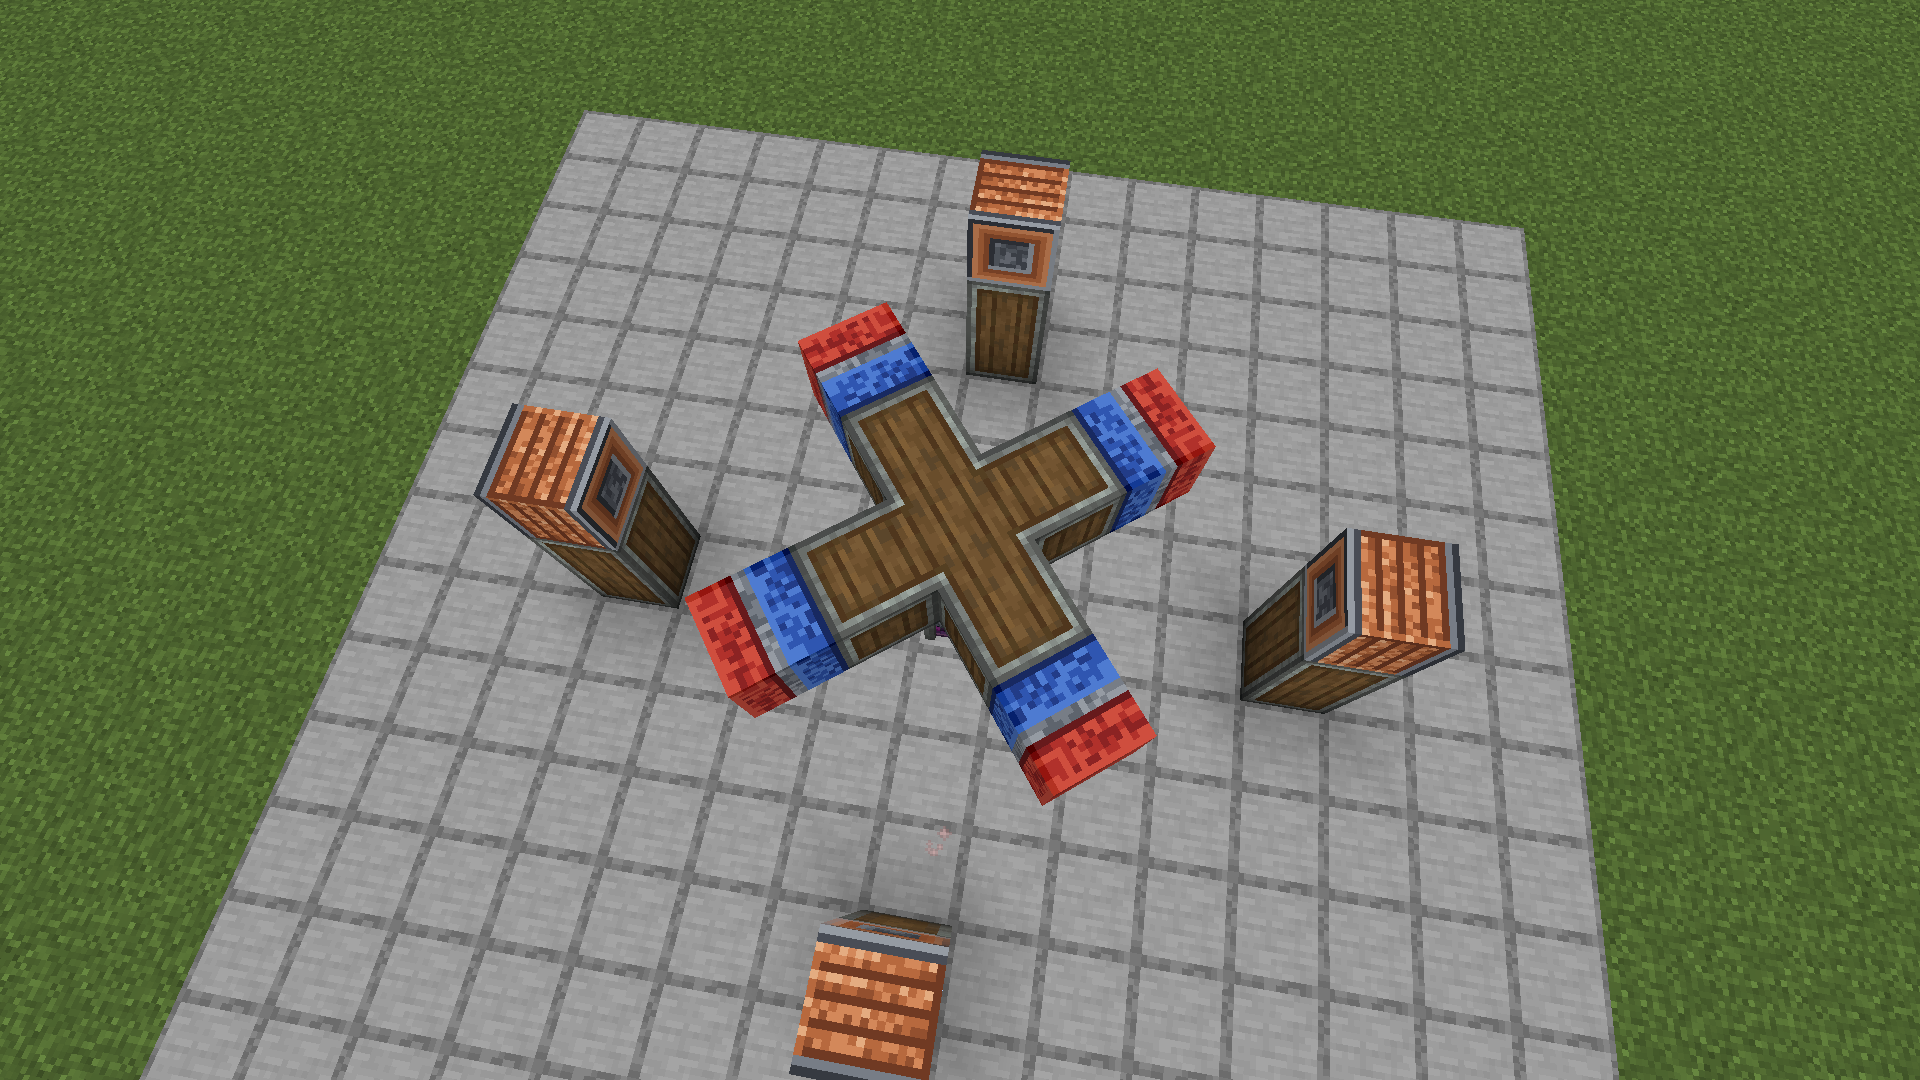
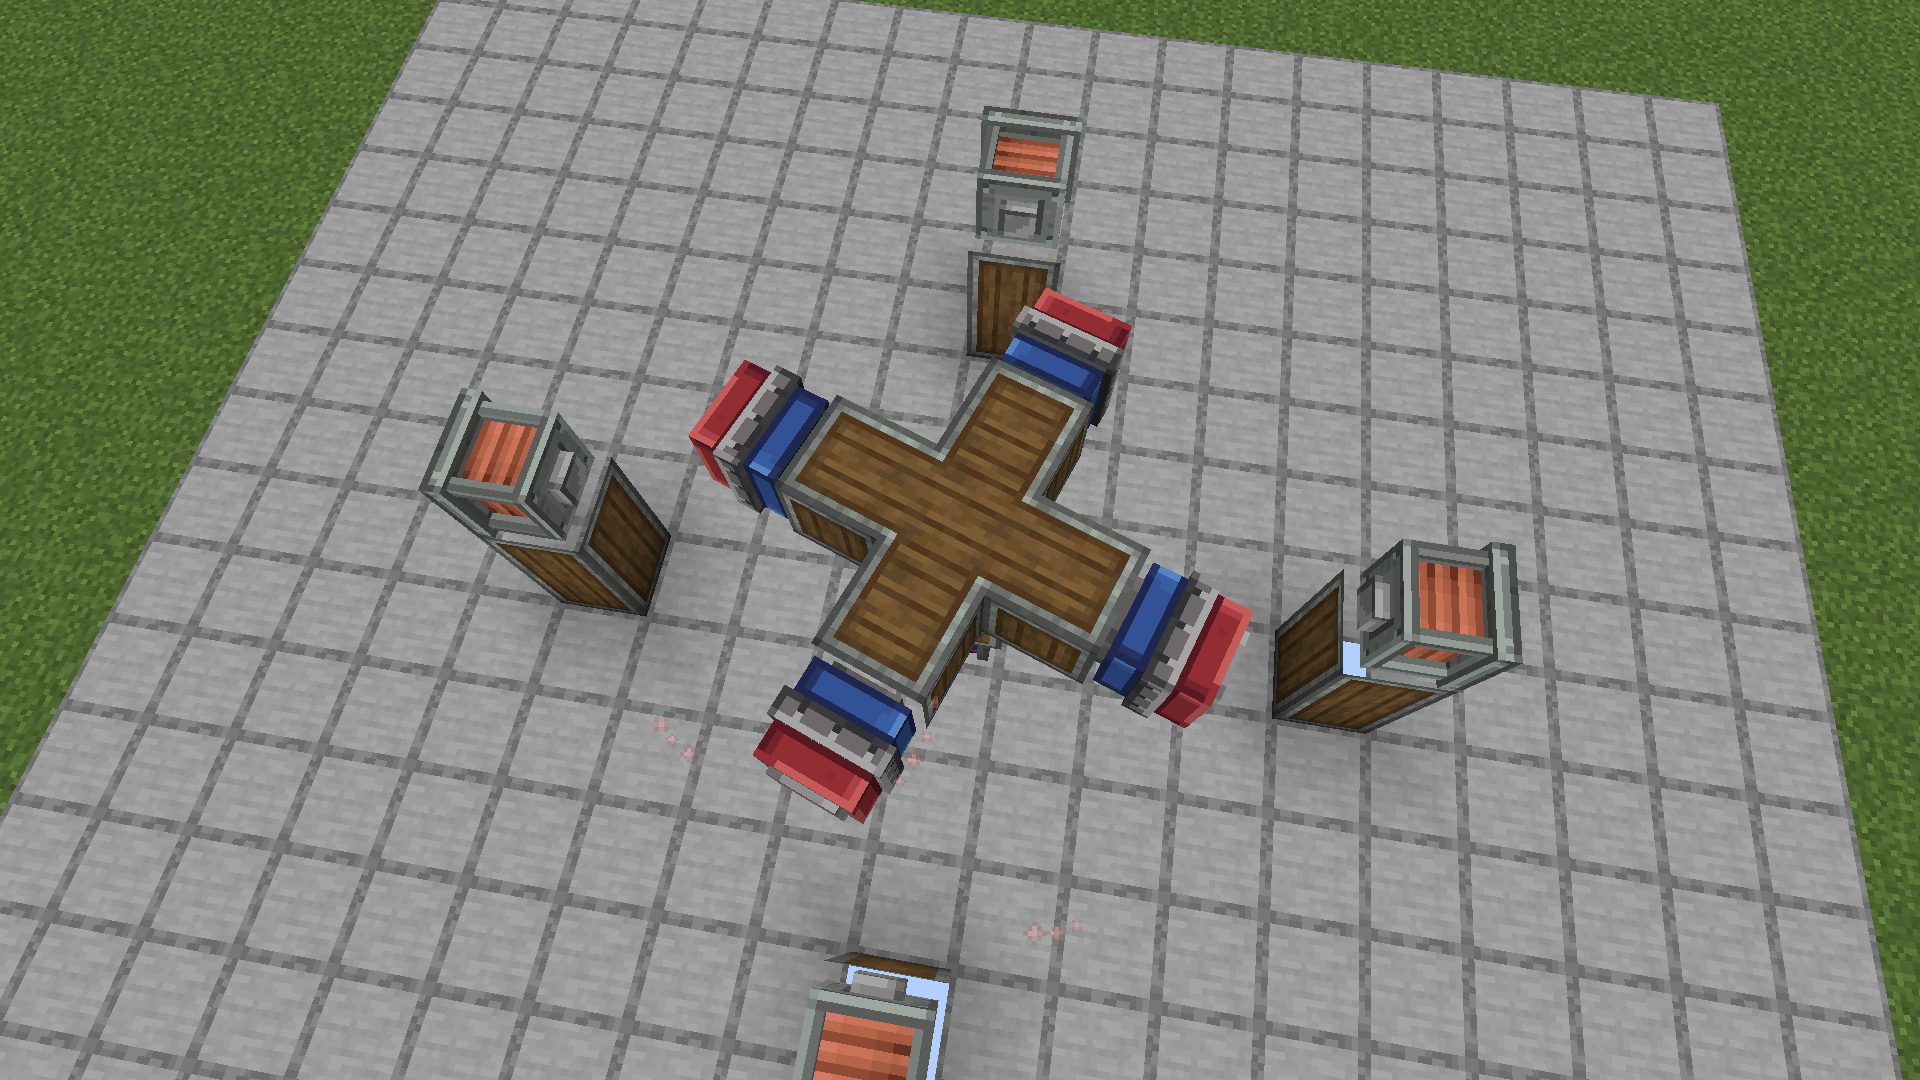
docs: slip rings, riveted layouts and water mill gallery
Claude-Session: https://claude.ai/code/session_01CYFnpUG9vceuDEbjoJofNZ

diff --git a/src/testmod/java/dev/jensh/createinduction/test/Showcase.java b/src/testmod/java/dev/jensh/createinduction/test/Showcase.java
@@ -218,7 +218,7 @@ public final class Showcase {
             if (wires) report.add("insideout battery=" + PowerGridRig.battery(server.overworld(), origin(3).offset(5, 0, 2)));
         }));
         shot("inside-out");
-        steps.add(onServer(server -> view(server, origin(3).above(4), 2.5, 2.2, 3.2)));
+        steps.add(onServer(server -> view(server, origin(3).above(4), 4.2, 0.9, 1.6)));
         pause(30);
         shot("slip-rings");
     }

diff --git a/docs/MODRINTH.md b/docs/MODRINTH.md
@@ -17,6 +17,24 @@ Electricity is never free. A coil that delivers power pushes back on the magnets
 
 ![The same generator seen from above: the rotor mid-turn between its four coils](https://raw.githubusercontent.com/jens-hj/create-induction/main/docs/gallery/generator-above.png)
 
+## Start small
+
+A generator does not need a creative motor. The bearing only takes the power its network can spare, so a few water wheels geared up turn a loaded rotor slowly instead of overstressing, and it speeds up as you add more.
+
+![Three water wheels geared up to a wheel-shaped magnet rotor between two coils, wired to a Power Grid battery](https://raw.githubusercontent.com/jens-hj/create-induction/main/docs/gallery/watermill.png)
+
+## Off the grid
+
+Coils and magnets do not have to sit on the block grid. Anything on its own physics structure counts, so with the Rivet from [Simulated Coasters](https://modrinth.com/mod/create-coasters-simulated) you can mount coils at any angle and fill the gaps a square layout leaves. Here four riveted coils between the four straight ones roughly double the output of the same rotor.
+
+![Seen from above: a four-magnet rotor ringed by eight coils, four of them riveted on at 45 degrees](https://raw.githubusercontent.com/jens-hj/create-induction/main/docs/gallery/riveted-above.png)
+
+## Inside out
+
+Real machines often spin the windings and keep the magnets still. That works here too: put the coils on the rotor, stand the magnets around it, and bring the electricity out through a pair of Slip Rings on the axis.
+
+![Four coils on a rotor between fixed magnets on posts, with a slip ring on the axis and wires leading away](https://raw.githubusercontent.com/jens-hj/create-induction/main/docs/gallery/inside-out.png)
+
 ## Blocks
 
 **Dynamo Bearing** – Feed it rotation from behind, glue a structure to its face and click it with an empty hand. The structure becomes a physics rotor driven towards the shaft's speed. Its stress impact rises and falls with the load.
@@ -26,12 +44,16 @@ Electricity is never free. A coil that delivers power pushes back on the magnets
 **Induction Coil** – Generates from any magnet moving past its face: Permanent Magnets, Redstone Magnets, on a rotor, on an airship, on a pendulum. Works in the world or on a physics structure.
 Give it a redstone signal and it runs the other way: it spends energy to become an electromagnet, with strength set by the signal. Pulse coils in time with a rotor and you have a motor.
 
+**Slip Ring** – Carries electricity across a turning joint. Place two face to face, one on the moving structure and one beside it; while their faces touch they pass Forge Energy straight through, and with Power Grid they join their wire terminals like brushes on a ring. Useful on any rotating or swivelling build, not only generators.
+
+![Close-up of two slip rings meeting on the axis of a rotor, wired to the coils below](https://raw.githubusercontent.com/jens-hj/create-induction/main/docs/gallery/slip-rings.png)
+
 Engineer's Goggles show voltage, current and power on coils, and rotor speed and delivered power on the bearing.
 
 ## Energy
 
 - **Forge Energy** – coils hold a small buffer and push into any neighbouring block that accepts FE. A full buffer means no load, no current and no braking.
-- **[Power Grid](https://modrinth.com/mod/power-grid)** (optional) – every coil gets a positive and a negative terminal on its back. Wire it up and it is a real voltage source in the circuit: the current your circuit draws is the current that brakes the rotor, and voltage applied from outside drives the coil as an electromagnet.
+- **[Power Grid](https://modrinth.com/mod/power-grid)** (optional) – every coil gets a positive and a negative terminal on its back. Wire it up and it is a real voltage source in the circuit: the current your circuit draws is the current that brakes the rotor, and with a redstone signal, voltage applied from outside drives it as an electromagnet. A generating coil lets nothing flow back in, so it can charge a battery directly.
 
 ## Requirements
 
@@ -47,4 +69,6 @@ Everything that affects balance is in the server config `create_induction-server
 ## Notes
 
 - Blocks on a rotor must be held together with Super Glue, as with any Create contraption.
+- A rotor is a solid object. Leave room for it to turn; anything in its way stops it.
+- Hanging wires to a Slip Ring on a rotor is done after assembling it.
 - This is an early release. Balance values are a first pass and may change.

diff --git a/README.md b/README.md
@@ -15,6 +15,8 @@ Player-facing description: [docs/MODRINTH.md](docs/MODRINTH.md).
 - `content/bearing` – assembles the structure on its face into a sub-level on a free hinge and applies drive torque
   directly; the stress impact follows the mechanical power delivered.
 - `content/magnet` – a permanent magnet registered in Simulated's magnet map.
+- `content/slipring` – two rings face to face on different bodies pair up and pass FE straight through; with Power
+  Grid their terminals are joined by a small brush resistance.
 - `compat/powergrid` – only loaded with Power Grid: the coil as a two-terminal voltage source.
 
 ## Requirements
